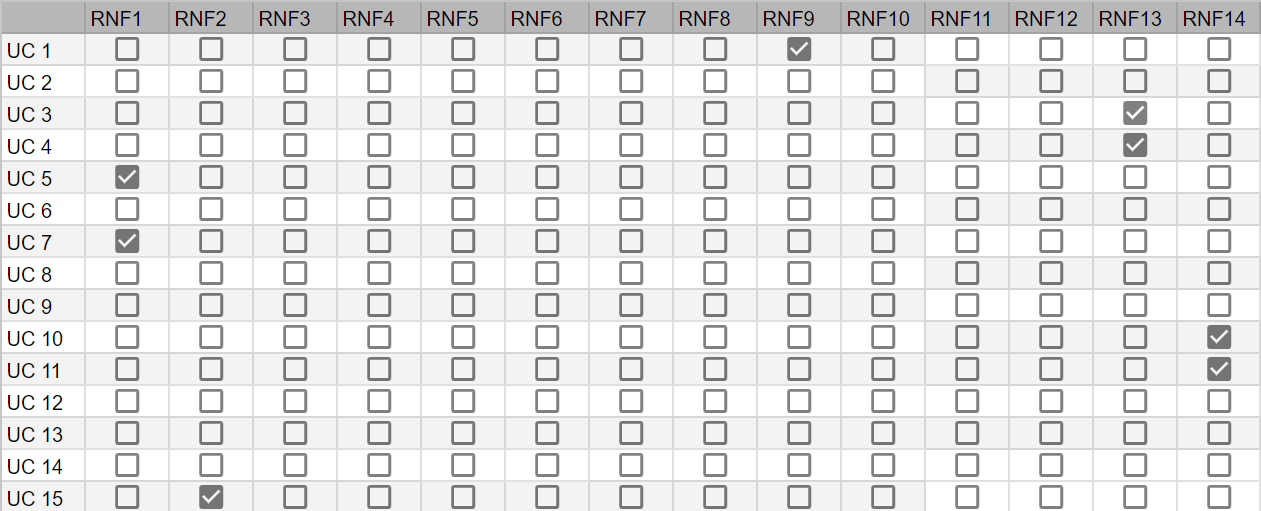
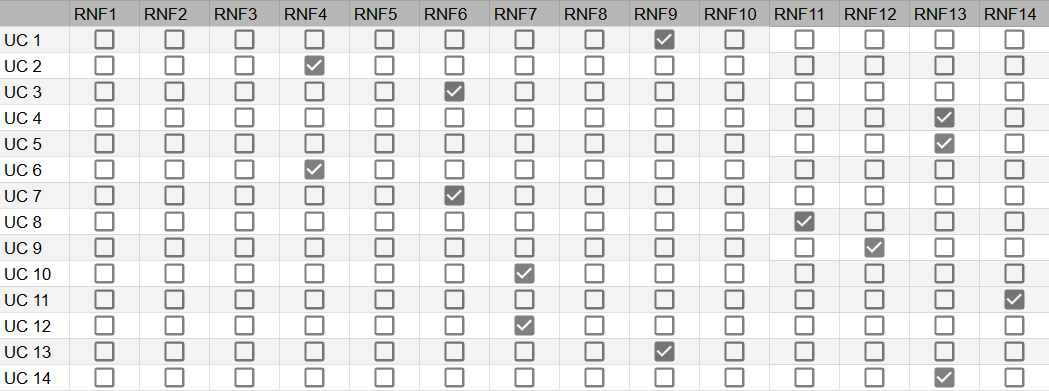
Upload artefatos

Changed region(s): [[0.0, 0.0, 1.0, 1.0]]

diff --git a/docs/index.md b/docs/index.md
@@ -255,7 +255,7 @@ Esta seção da documentação do software fornece uma descrição detalhada dos
 
 ## Requisitos não Funcionais
 
-<img src="./assets/requisitos/requisitos-nao-funcionais-1.png"/>  
+<img src="./assets/requisitos/requisitos-nao-funcionais.png"/>  
 <img src="./assets/requisitos/requisitos-nao-funcionais-2.png"/>  
 <img src="./assets/requisitos/requisitos-nao-funcionais-3.png"/>
 
@@ -282,6 +282,9 @@ Exemplo de Diagrama de Casos de Uso
 <img src="./assets/Materiais Grupo 5 Developers (7).png/>
 
 ## Matriz de Ratreabilidade
+
+Matriz de rastreabilidade dos requisitos funcionais:
+<img src="./assets/matriz-rastreabilidade/matriz-rastreabilidade-requisitos-funcionais.png"/>
 
 Matriz de rastreabilidade dos requisitos não funcionais:
 <img src="./assets/matriz-rastreabilidade/matriz-rastreabilida-requisitos-nao-funcionais.png"/>
@@ -323,10 +326,16 @@ Exemplos: tela da home, tela de login, etc. Em cada tela colocar: cabeçalho, ro
 
 Aqui você deve colocar o link para o wireframe ou colocar as imagens geradas na sequência correta do fluxo de navegação
 
-## Design de Interface - Guia de Estilos
-Refere-se ao design visual, cores, tipografia, imagens, logotipos, ou seja, os elementos visuais que compõem o produto.
-Aqu
-i você deve colocar o link para seu documento de guia de estilos
+## Guia de Estilos
+<hr>
+<center>
+<img src="./assets/DesignSystem/design_system.png"/>
+<a href="https://www.figma.com/file/XwY8Q3XWazGLRDzCBPN2xM/Style-Guide-Sprint-3?node-id=294%3A2896&t=M85J2JGabpMNqBbr-1">
+  Link Guia de Estilos
+</a>
+</center>
+
+<hr>
 
 
 
